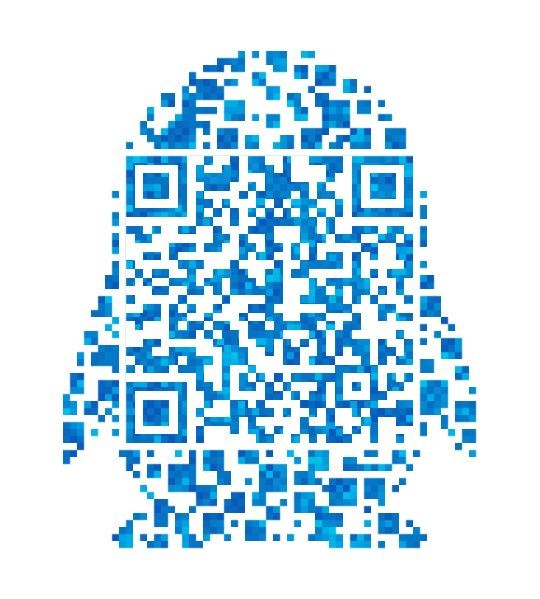
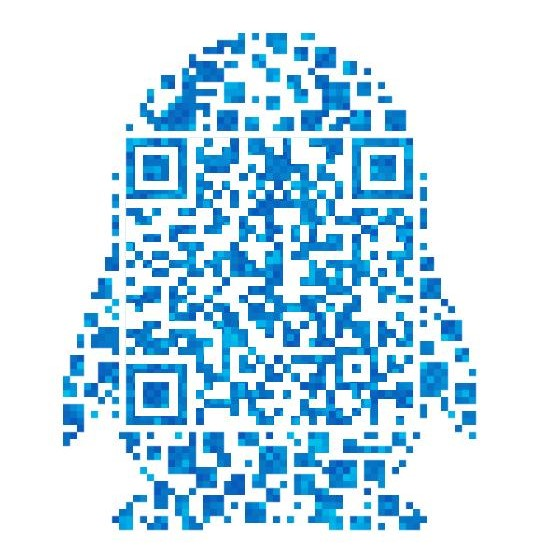
Site updated: 2020-01-12 12:10:09

Changed region(s): [[0.0889, 0.0306, 0.8889, 0.9784]]

diff --git a/index.html b/index.html
@@ -388,7 +388,7 @@ Mo...
             <!-- profile -->
             
             <div class="profile">
-    <img class="profile-avatar" alt="avatar" src= /avatar/avatar.jpg >
+    <img class="profile-avatar" alt="avatar" src= /avatar/touxiang.jpg >
     <div class="profile-name">兴森侯</div>
     
     <div class="profile-signature">
